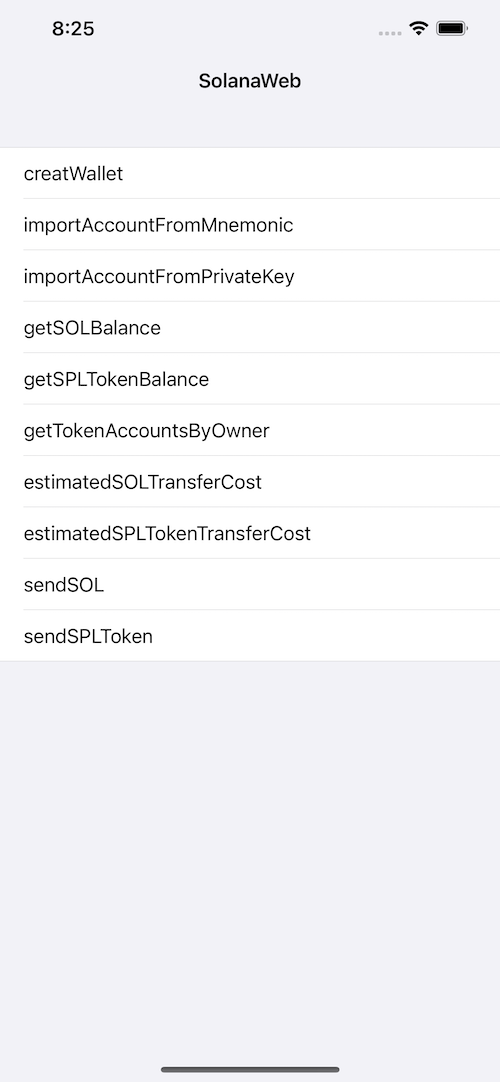
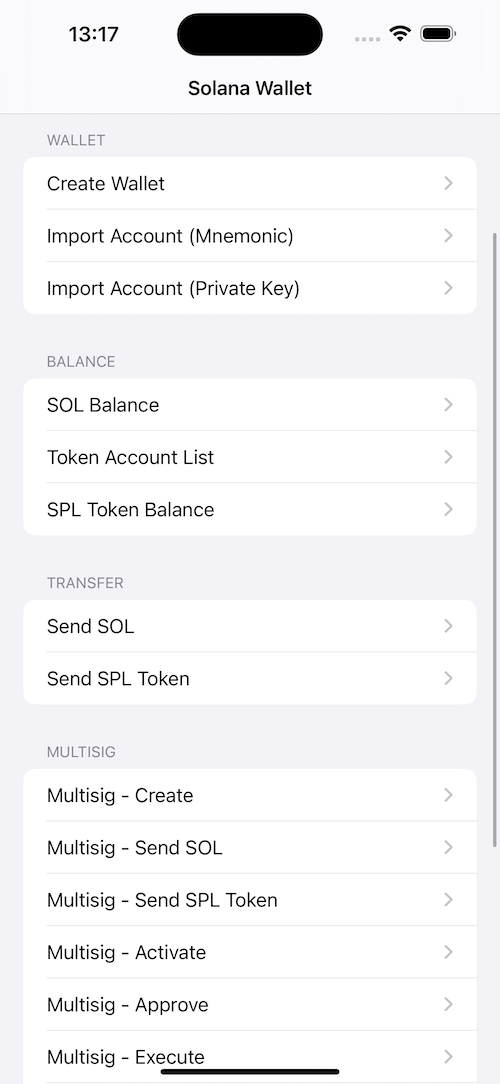
edit readme

diff --git a/README.md b/README.md
@@ -1,177 +1,258 @@
 # SolanaWeb
-**SolanaWeb** is an iOS toolbelt for interaction with the Solana network.
+
+**SolanaWeb** is a Swift library for interacting with the Solana network on iOS and macOS. It uses a WebKit-based JavaScript bridge to perform wallet operations, balance queries, SOL/SPL token transfers, message signing, and multisig flows.
 
 ![language](https://img.shields.io/badge/Language-Swift-green)
-[![CocoaPods](https://img.shields.io/badge/support-SwiftPackageManagr-green)](https://www.swift.org/getting-started/#using-the-package-manager)
+[![CocoaPods](https://img.shields.io/badge/support-Swift%20Package%20Manager-green)](https://www.swift.org/getting-started/#using-the-package-manager)
 
-![](Resource/Demo01.png)
+For full app examples, see the [Demo](https://github.com/Elizabet1926/Solana/tree/master/Demo) project.
 
-For more specific usage, please refer to the [demo](https://github.com/Elizabet1926/Solana/tree/master/Demo)
+---
 
-### Highly Important Forward Guidance
+## Important note on RPC nodes
 
-```
-I used the node "https://solana.maiziqianbao.net/" to test SOL transfers, SPL Token transfers, and other features,
-all of which were successful. However, SPL Token transfers using this node are relatively slow, taking about 20 seconds. 
-Therefore, I recommend purchasing nodes from https://www.quicknode.com/.
-```
+The public node `https://solana.maiziqianbao.net/` has been used for testing SOL transfers, SPL token transfers, and other features; all succeeded. SPL token transfers on this node can be slow (~20 seconds). For production, consider using a dedicated RPC provider (e.g. [QuickNode](https://www.quicknode.com/)).
+
+---
+
+## Installation
+
 ### Swift Package Manager
 
-```ruby
+Add to your `Package.swift` or Xcode:
+
+```swift
 dependencies: [
-    .package(url: "https://github.com/Elizabet1926/Solana.git", .upToNextMajor(from: "1.0.8"))
+    .package(url: "https://github.com/Elizabet1926/Solana.git", .upToNextMajor(from: "1.1.0"))
 ]
 ```
 
+Then add the **SolanaWeb** target to your app target.
 
-### Example usage
+---
+
+## Quick start
 
 ```swift
 import SolanaWeb
-```
 
-##### Setup SolanaWeb
-```swift
-let solanaWeb = SolanaWeb3_V1()
-if solanaWeb.isGenerateSolanaWebInstanceSuccess {
-   transferType == .sendSOL ? sendSOL() : sendSPLToken()
-} else {
-   solanaWeb.setup(showLog: true) { [weak self] _ in
-      guard let self = self else { return }
-      self.transferType == .sendSOL ? self.sendSOL() : self.sendSPLToken()
-   }
-}
-```
-
-##### Create Wallet
-```swift
-solanaWeb.createWallet() { [weak self] state, address, privateKey, mnemonic,error in
-    guard let self = self else { return }
-    self.createWalletBtn.isEnabled = true
-    tipLabel.text = "create finished."
-    if state {
-        let text =
-            "address: " + address + "\n\n" +
-            "mnemonic: " + mnemonic + "\n\n" +
-            "privateKey: " + privateKey
-        walletDetailTextView.text = text
-    } else {
-        walletDetailTextView.text = error
+let solanaWeb = SolanaWeb()
+solanaWeb.setup(showLog: true) { success in
+    if success {
+        // Use solanaWeb for wallet, balance, transfer, etc.
     }
 }
 ```
 
-##### Import Account From Mnemonic
+All methods return results in a `[String: Any]?` dictionary. Check for an `"error"` key for failures; success keys vary by method (e.g. `"signature"`, `"address"`, `"mnemonic"`).
+
+---
+
+## Constants
+
+### Main net RPC URLs
+
 ```swift
-guard let mnemonic = mnemonicTextView.text else{return}
-solanaWeb.importAccountFromMnemonic (mnemonic: mnemonic){ [weak self] state, address, privateKey, publicKey, error in
-    guard let self = self else { return }
-    self.importAccountFromMnemonicBtn.isEnabled = true
-    tipLabel.text = "import finished."
-    if state {
-        let text =
-            "address: " + address + "\n\n" +
-            "privateKey: " + privateKey + "\n\n" +
-            "publicKey: " + publicKey
-        walletDetailTextView.text = text
-    } else {
-        walletDetailTextView.text = error
+SolanaMainNet1  // https://solana.maiziqianbao.net
+SolanaMainNet2  // https://api.mainnet-beta.solana.com
+SolanaMainNet3  // https://solana-api.projectserum.com
+SolanaMainNet4  // https://rpc.ankr.com/solana
+```
+
+### SPL token mints
+
+```swift
+SPLToken.USDT.rawValue  // Es9vMFrzaCERmJfrF4H2FYD4KCoNkY11McCe8BenwNYB
+SPLToken.USDC.rawValue  // EPjFWdd5AufqSSqeM2qN1xzybapC8G4wEGGkZwyTDt1v
+```
+
+---
+
+## Setup
+
+| Method | Description |
+|--------|-------------|
+| `setup(showLog:onCompleted:)` | Loads the internal WebView and registers the JS bridge. Call once before using other APIs. `onCompleted(Bool)` is called when the bridge is ready. |
+| `isGenerateSolanaWebInstanceSuccess` | `true` after the JS bridge has reported success (e.g. after first `setup` completion). |
+
+**Example**
+
+```swift
+let solanaWeb = SolanaWeb()
+solanaWeb.setup(showLog: true) { success in
+    if success {
+        // Ready to call createWallet, getSOLBalance, sendSOL, etc.
     }
 }
 ```
-##### Import Account From PrivateKey
+
+---
+
+## Wallet management
+
+| Method | Description |
+|--------|-------------|
+| `createWallet(wordCount:language:completion:)` | Creates a new wallet. **wordCount**: 12, 15, 18, 21, or 24. **language**: e.g. `"en"`, `"zh-CN"`, `"ja"`. Returns address, privateKey, mnemonic, etc. in the response dictionary. |
+| `createWalletAsync(wordCount:language:)` | Async version of `createWallet`. |
+| `importAccountFromMnemonic(mnemonic:completion:)` | Imports an account from a BIP39 mnemonic phrase. |
+| `importAccountFromMnemonicAsync(mnemonic:)` | Async version of `importAccountFromMnemonic`. |
+| `importAccountFromPrivateKey(privateKey:completion:)` | Imports an account from a base58 private key. |
+| `importAccountFromPrivateKeyAsync(privateKey:)` | Async version of `importAccountFromPrivateKey`. |
+
+**Example (create wallet)**
+
 ```swift
-guard let privateKey = privateKeyTextView.text else{return}
-solanaWeb.importAccountFromPrivateKey(privateKey: privateKey){ [weak self] state, address, privateKey,error in
-    guard let self = self else { return }
-    self.importAccountFromPrivateKeyBtn.isEnabled = true
-    tipLabel.text = "import finished."
-    if state {
-        let text =
-            "address: " + address + "\n\n" +
-            "privateKey: " + privateKey
-        walletDetailTextView.text = text
-    } else {
-        walletDetailTextView.text = error
+solanaWeb.createWallet(wordCount: 12, language: "en") { response in
+    guard let r = response else { return }
+    if let err = r["error"] as? String {
+        print("Error: \(err)"); return
+    }
+    let address = r["address"] as? String
+    let privateKey = r["privateKey"] as? String
+    let mnemonic = r["mnemonic"] as? String
+    // ...
+}
+```
+
+---
+
+## Balance
+
+| Method | Description |
+|--------|-------------|
+| `getSOLBalance(address:endpoint:completion:)` | Gets SOL balance for a given address. **endpoint**: RPC URL (e.g. from your config). |
+| `getSOLBalanceAsync(address:endpoint:)` | Async version of `getSOLBalance`. |
+| `getSPLTokenBalance(address:mint:endpoint:decimalPoints:completion:)` | Gets SPL token balance. **mint**: token mint address. **decimalPoints**: default 6. |
+| `getSPLTokenBalanceAsync(address:mint:endpoint:decimalPoints:)` | Async version of `getSPLTokenBalance`. |
+| `getTokenAccountsByOwner(address:endpoint:completion:)` | Gets all token accounts for an owner. Response includes `"tokenAccounts"` (e.g. JSON string array). |
+| `getTokenAccountsByOwnerAsync(address:endpoint:)` | Async version of `getTokenAccountsByOwner`. |
+
+**Example (SOL balance)**
+
+```swift
+solanaWeb.getSOLBalance(address: "YourBase58Address", endpoint: SolanaMainNet1) { response in
+    guard let r = response, r["error"] == nil else { return }
+    // Use balance from r (e.g. r["balance"] or similar key from JS)
+}
+```
+
+---
+
+## Transfer cost estimation
+
+| Method | Description |
+|--------|-------------|
+| `estimatedSOLTransferCost(fromPublicKey:toPublicKey:amountLamports:endpoint:completion:)` | Estimates SOL cost for a transfer. **amountLamports**: amount in lamports. Response may include `estimatedSOLTransferCost`, `transferSol`, `estimatedFeeSol`, `needCreateAccount`, `rentExemptMinimumSol`, `totalCostWithRentSol`, or `error`. |
+| `estimatedSOLTransferCostAsync(...)` | Async version. |
+| `estimatedSPLTokenTransferCost(secretKey:fromPublicKey:toPublicKey:mint:amountRaw:decimals:endpoint:completion:)` | Estimates SOL cost for an SPL token transfer. **amountRaw**: amount in smallest unit (amount × 10^decimals). Pass `nil` for `secretKey` or `fromPublicKey` when not needed. Response: `"cost"` (SOL string) or `"error"`. |
+| `estimatedSPLTokenTransferCostAsync(...)` | Async version. |
+
+---
+
+## Transfers
+
+| Method | Description |
+|--------|-------------|
+| `sendSOL(secretKey:toPublicKey:amountLamports:endpoint:completion:)` | Sends SOL. **secretKey**: base58 private key. **amountLamports**: amount in lamports. Response: `"signature"` (txid) or `"error"`. |
+| `sendSOLAsync(...)` | Async version of `sendSOL`. |
+| `sendSPLToken(secretKey:toPublicKey:mint:amountRaw:decimals:endpoint:completion:)` | Sends SPL token. **mint**: token mint address. **amountRaw**: amount in smallest unit. **decimals**: token decimals. Response: `"signature"` or `"error"`. |
+| `sendSPLTokenAsync(...)` | Async version of `sendSPLToken`. |
+
+**Example (send SOL)**
+
+```swift
+let secretKey = "base58PrivateKey"
+let toPublicKey = "recipientBase58Address"
+let amountLamports: UInt64 = 1_000_000  // 0.001 SOL
+
+solanaWeb.sendSOL(secretKey: secretKey, toPublicKey: toPublicKey, amountLamports: amountLamports, endpoint: SolanaMainNet1) { response in
+    guard let r = response else { return }
+    if let sig = r["signature"] as? String {
+        print("Txid: \(sig)")
+    } else if let err = r["error"] as? String {
+        print("Error: \(err)")
     }
 }
 ```
 
-##### Estimate Cost with Send SOL
-```swift
-guard let sendAddress = sendAddressTextView.text,
-          let toAddress = reviceAddressField.text,
-          let amount = amountTextField.text else { return }
-    print("Estimate Cost start.")
-    solanaWeb.estimatedSOLTransferCost(fromAddress: sendAddress,
-                                       toAddress: toAddress,
-                                       amount: amount,
-                                       endpoint: SolanaMainNet) { [weak self] state, estimatedSOLTransferCost,error in
-        guard let self = self else { return }
-        print("Estimate Cost finised.")
-        if (state) {
-            self.estimatedCostLabel.text = "send SOL estimated cost \(estimatedSOLTransferCost) SOL "
-        } else {
-            self.estimatedCostLabel.text = error
-        }
-    }
-```
+---
 
-##### Send SOL
-```swift
-let privateKey = ""
-let toAddress = ""
-let amount = ""
-solanaWeb.solanaTransfer(privateKey: privateKey, toAddress: toAddress, amount: amount, endpoint: SolanaMainNet) { [weak self] state, txid, error in
-    guard let self = self else { return }
-    print("state = \(state)")
-    print("txid = \(txid)")
-    if (state) {
-        self.hashLabel.text = txid
-     } else {
-        self.hashLabel.text = error
-     }
-} 
-```
+## Signing and verification
 
-##### Estimate Cost with Send SPLToken
+| Method | Description |
+|--------|-------------|
+| `signMessage(privateKey:message:encoding:completion:)` | Signs a message with the given base58 private key. **encoding**: `"utf8"`, `"base58"`, or `"auto"`. Response: `signature`, `publicKey`, `message`, `detectedEncoding`, or `error`. |
+| `signMessageAsync(privateKey:message:encoding:)` | Async version of `signMessage`. |
+| `verifySignature(publicKey:message:signature:encoding:completion:)` | Verifies a signature. **encoding**: `"utf8"`, `"base58"`, or `"auto"`. Response: `isValid`, `publicKey`, `message`, `detectedEncoding`, or `error`. |
+| `verifySignatureAsync(...)` | Async version of `verifySignature`. |
+
+---
+
+## Multisig
+
+| Method | Description |
+|--------|-------------|
+| `createMultisig(creatorPrivateKey:members:threshold:endpoint:name:completion:)` | Creates a multisig. **members**: array of base58 public keys (≥2). **threshold**: number of required approvals (1...N). **name**: optional. Returns `multisigPda`, `vaultPda`, `createKey`, `createKeyPrivateKey`, `signature`, or `error`. |
+| `createMultisigAsync(...)` | Async version. |
+| `multisigSendSOL(creatorPrivateKey:multisigPda:to:amountSol:endpoint:vaultIndex:transactionIndex:completion:)` | Creates a SOL transfer proposal (draft). **amountSol**: amount in SOL. Optional **vaultIndex** / **transactionIndex**. Returns `transactionIndex`, `vaultTransactionPda`, `proposalPda`, etc. |
+| `multisigSendSOLAsync(...)` | Async version. |
+| `multisigSendSPLToken(creatorPrivateKey:multisigPda:mint:to:amount:decimals:endpoint:createAtaIfMissing:vaultIndex:transactionIndex:completion:)` | Creates an SPL token transfer proposal (draft). **amount**: UI amount (e.g. 1.5). **createAtaIfMissing**: create associated token account if needed (default true). |
+| `multisigSendSPLTokenAsync(...)` | Async version. |
+| `proposalActivate(memberPrivateKey:multisigPda:transactionIndex:endpoint:completion:)` | Moves a proposal from Draft to Active. |
+| `proposalActivateAsync(...)` | Async version. |
+| `proposalApprove(memberPrivateKey:multisigPda:transactionIndex:endpoint:completion:)` | Records a member’s approval for the proposal. |
+| `proposalApproveAsync(...)` | Async version. |
+| `vaultTransactionExecute(memberPrivateKey:multisigPda:transactionIndex:endpoint:vaultIndex:completion:)` | Executes the vault transaction after enough approvals. **vaultIndex**: optional (default 0). |
+| `vaultTransactionExecuteAsync(...)` | Async version. |
+| `getProposalStatus(multisigPda:transactionIndex:endpoint:completion:)` | Read-only proposal status. No private key. Returns `status`, `proposalPda`, `approvedCount`, `threshold`, etc. |
+| `getProposalStatusAsync(...)` | Async version. |
+
+**Example (create multisig)**
+
 ```swift
-guard let privateKey = privateKeyTextView.text,
-      let toAddress = reviceAddressField.text,
-      let tokenAddress = SPLTokenAddressTextField.text,
-      let amount = amountTextField.text else { return }
-      solanaWeb.estimatedSPLTokenTransferCost(privateKey: privateKey,
-                                                toAddress: toAddress,
-                                                mintAddress: tokenAddress,
-                                                amount: amount) { [weak self] state, cost,error in
-            guard let self = self else { return }
-            if (state) {
-                self.estimatedCostLabel.text = "sendSPLToken estimated cost \(cost) SOL "
-            } else {
-                self.estimatedCostLabel.text = error
-            }
-        }
-```
-##### Send SPLToken
-```swift
-let privateKey = ""
-let toAddress = ""
-let tokenAddress = ""
-let amount = ""
-solanaWeb.solanaTokenTransfer(privateKey: privateKey, toAddress: toAddress, mintAuthority: tokenAddress, amount: amount, endpoint: SolanaMainNet) { [weak self] state, txid, error in
-    guard let self = self else { return }
-    print("state = \(state)")
-    print("txid = \(txid)")
-    if (state) {
-        self.hashLabel.text = txid
-     } else {
-        self.hashLabel.text = error
-     }
+let creatorPrivateKey = "base58PrivateKey"
+let members = ["pubkey1", "pubkey2", "pubkey3"]
+let threshold = 2
+
+solanaWeb.createMultisig(creatorPrivateKey: creatorPrivateKey, members: members, threshold: threshold, endpoint: SolanaMainNet1, name: "MyMultisig") { response in
+    guard let r = response, r["error"] == nil else { return }
+    let multisigPda = r["multisigPda"] as? String
+    let vaultPda = r["vaultPda"] as? String
+    // ...
 }
 ```
 
-For more specific usage, please refer to the [demo](https://github.com/Elizabet1926/Solana/tree/master/Demo)
+---
+
+## Async usage
+
+All completion-handler methods have an `Async` counterpart that returns `[String: Any]?` from an async context:
+
+```swift
+let solanaWeb = SolanaWeb()
+solanaWeb.setup(showLog: true) { _ in }
+
+// Example: create wallet with async/await
+Task { @MainActor in
+    let result = await solanaWeb.createWalletAsync(wordCount: 12, language: "en")
+    if let r = result, r["error"] == nil {
+        let address = r["address"] as? String
+        let mnemonic = r["mnemonic"] as? String
+        // ...
+    }
+}
+
+// Example: send SOL with async/await
+Task { @MainActor in
+    let result = await solanaWeb.sendSOLAsync(secretKey: sk, toPublicKey: to, amountLamports: amount, endpoint: endpoint)
+    if let r = result, let sig = r["signature"] as? String {
+        print("Txid: \(sig)")
+    }
+}
+```
+
+---
 
 ## License
- 
-SolanaWeb is released under the MIT license. [See LICENSE](https://github.com/Elizabet1926/Solana/blob/master/LICENSE) for details.
+
+SolanaWeb is released under the MIT license. See [LICENSE](https://github.com/Elizabet1926/Solana/blob/master/LICENSE) for details.
